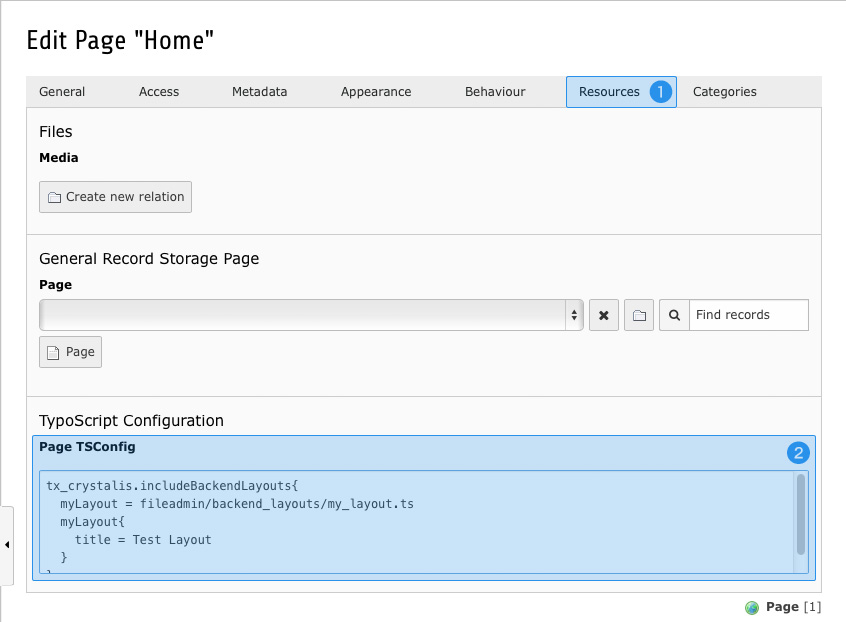
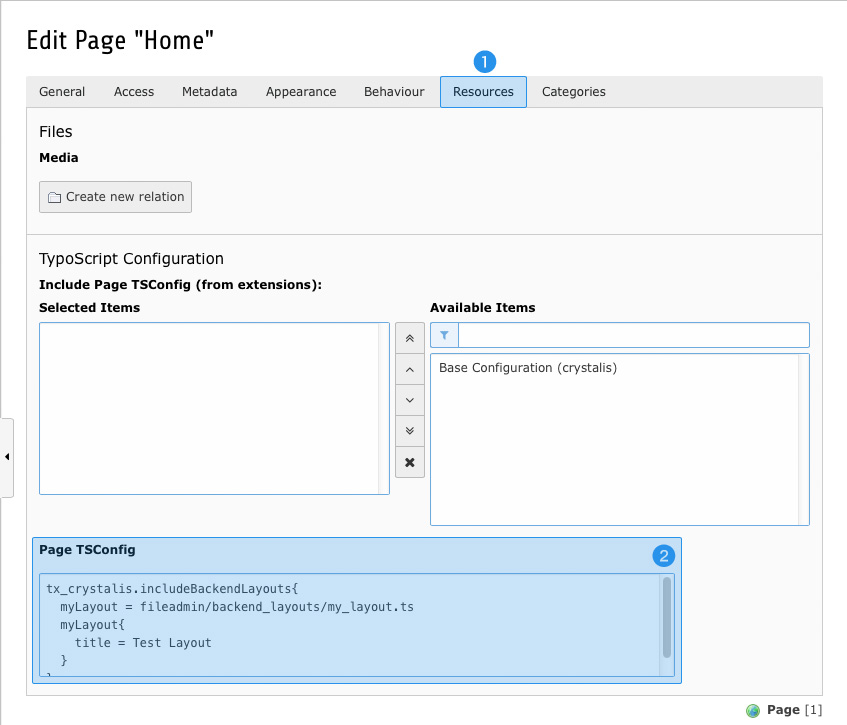
[TASK] Move Page TSconfig to Include Static
TYPO3 CMS 7.4 allows external Page TSconfig files to be assigned to
specific pages. Most of backend configuration therefore will be
included using this technique.

Releases: 7.4

diff --git a/Configuration/TypoScript/Controller/PageTS/Main.ts b/Configuration/TypoScript/Controller/PageTS/Main.ts
@@ -1,0 +1,3 @@
+<INCLUDE_TYPOSCRIPT: source="FILE:EXT:crystalis/Configuration/TypoScript/Backend/ModWizards.ts">
+<INCLUDE_TYPOSCRIPT: source="FILE:EXT:crystalis/Configuration/TypoScript/Backend/Behaviour.ts">
+<INCLUDE_TYPOSCRIPT: source="FILE:EXT:crystalis/Configuration/TypoScript/Backend/RichTextEditor.ts">

diff --git a/ext_localconf.php b/ext_localconf.php
@@ -48,15 +48,6 @@ unset($additionalRootLineFields);
 
 
     // Inject TypoScript configurations
-if($_EXTCONF['setPageTSconfig'] || !$_EXTCONF) {
-    
-    \TYPO3\CMS\Core\Utility\ExtensionManagementUtility::addPageTSConfig(
-            '<INCLUDE_TYPOSCRIPT: source="FILE:EXT:crystalis/Configuration/TypoScript/Backend/ModWizards.ts">' . \chr(10) 
-            . '<INCLUDE_TYPOSCRIPT: source="FILE:EXT:crystalis/Configuration/TypoScript/Backend/Behaviour.ts">' . \chr(10) 
-            . '<INCLUDE_TYPOSCRIPT: source="FILE:EXT:crystalis/Configuration/TypoScript/Backend/RichTextEditor.ts">');
-    
-}
-
 if($_EXTCONF['setUserTSconfig'] || !$_EXTCONF) {
     
     \TYPO3\CMS\Core\Utility\ExtensionManagementUtility::addUserTSConfig(

diff --git a/Configuration/TCA/Overrides/pages.php b/Configuration/TCA/Overrides/pages.php
@@ -37,6 +37,16 @@ switch($_EXTCONF['doctype']) {
 
 
 
+    // Provide page TSconfig
+\TYPO3\CMS\Core\Utility\ExtensionManagementUtility::registerPageTSConfigFile(
+        $_EXTKEY, 
+        'Configuration/TypoScript/Controller/PageTS/Main.ts', 
+        'Base Configuration');
+
+
+
+
+
     // Provide SEO functionality
 if(!$_EXTCONF['disableSeo'] || !$_EXTCONF) {
     

diff --git a/Documentation/ConfigurationPresets/PageTyposcript/Index.rst b/Documentation/ConfigurationPresets/PageTyposcript/Index.rst
@@ -11,25 +11,28 @@
 Page TypoScript
 ^^^^^^^^^^^^^^^
 
-The page configuration is automatically injected by default and supports you with an optimized Rich Text Editor 
-configuration, purged backend forms and some preset values you may won't have to remember any more.
+The pre-defined Page TypoScript provides configurations for the *New Content Element Wizard*, optimizes the 
+Rich Text Editor and adjusts backend forms to increase usability.
 
-Do not worry about Crystalis changing the default style of your content elements. The preset values do not affect 
-layouts, stylings or any kind of content – they preselect options which mainly are of technical nature. For 
-example the default Extbase Frontend User Domain Model is allocated to frontend users. If this option is not set 
-properly you may experience issues when trying to access frontent users using Extbase.
+Please be aware, that page configurations aren't loaded by default any more. To make use of them, you have to 
+assign them to the page(s) of your choice.
 
 
-.. _preset-page-ts-deactivate:
+.. _preset-page-ts-embed:
 
-Prevent injection of Page TypoScript
-""""""""""""""""""""""""""""""""""""
+Embedding Page TypoScript
+"""""""""""""""""""""""""
 
-If you still aren't comfortable with that or just want to write your own configurations from scratch, you simply 
-can disable injection of Page TypoScript inside the TYPO3 Extension Manager – thus requiring you to have 
-administrator rights.
+From now on, page configurations have to be assigned to pages manually. This allows you to limit those 
+configurations to a subset of pages (and all of their sub-pages), leaving any other page untouched.
 
-To deactivate Page TypoScript, head to Extension Manager and select Crystalis. In General tab uncheck 
-*"Page TypoScript"* in *"Preset configurations"* section and save your changes.
+To achieve this, edit the page(s) of your choice:
 
-From now on, Crystalis will desist from loading Page TypoScript automatically.
+.. figure:: ../../Images/PageTSConfig/IncludePageTSConfig.jpg
+   :align: left
+   :alt: Embed Page TSConfig to a page
+
+Switch to *Resources* tab **(1)** and add *Base Configuration (crystalis)* to *Selected Items* within 
+*Include Page TSConfig (from extensions)* **(2)**.
+
+After saving your changes the Page TypoScript will be loaded for this particular page and all of its sub-pages.
